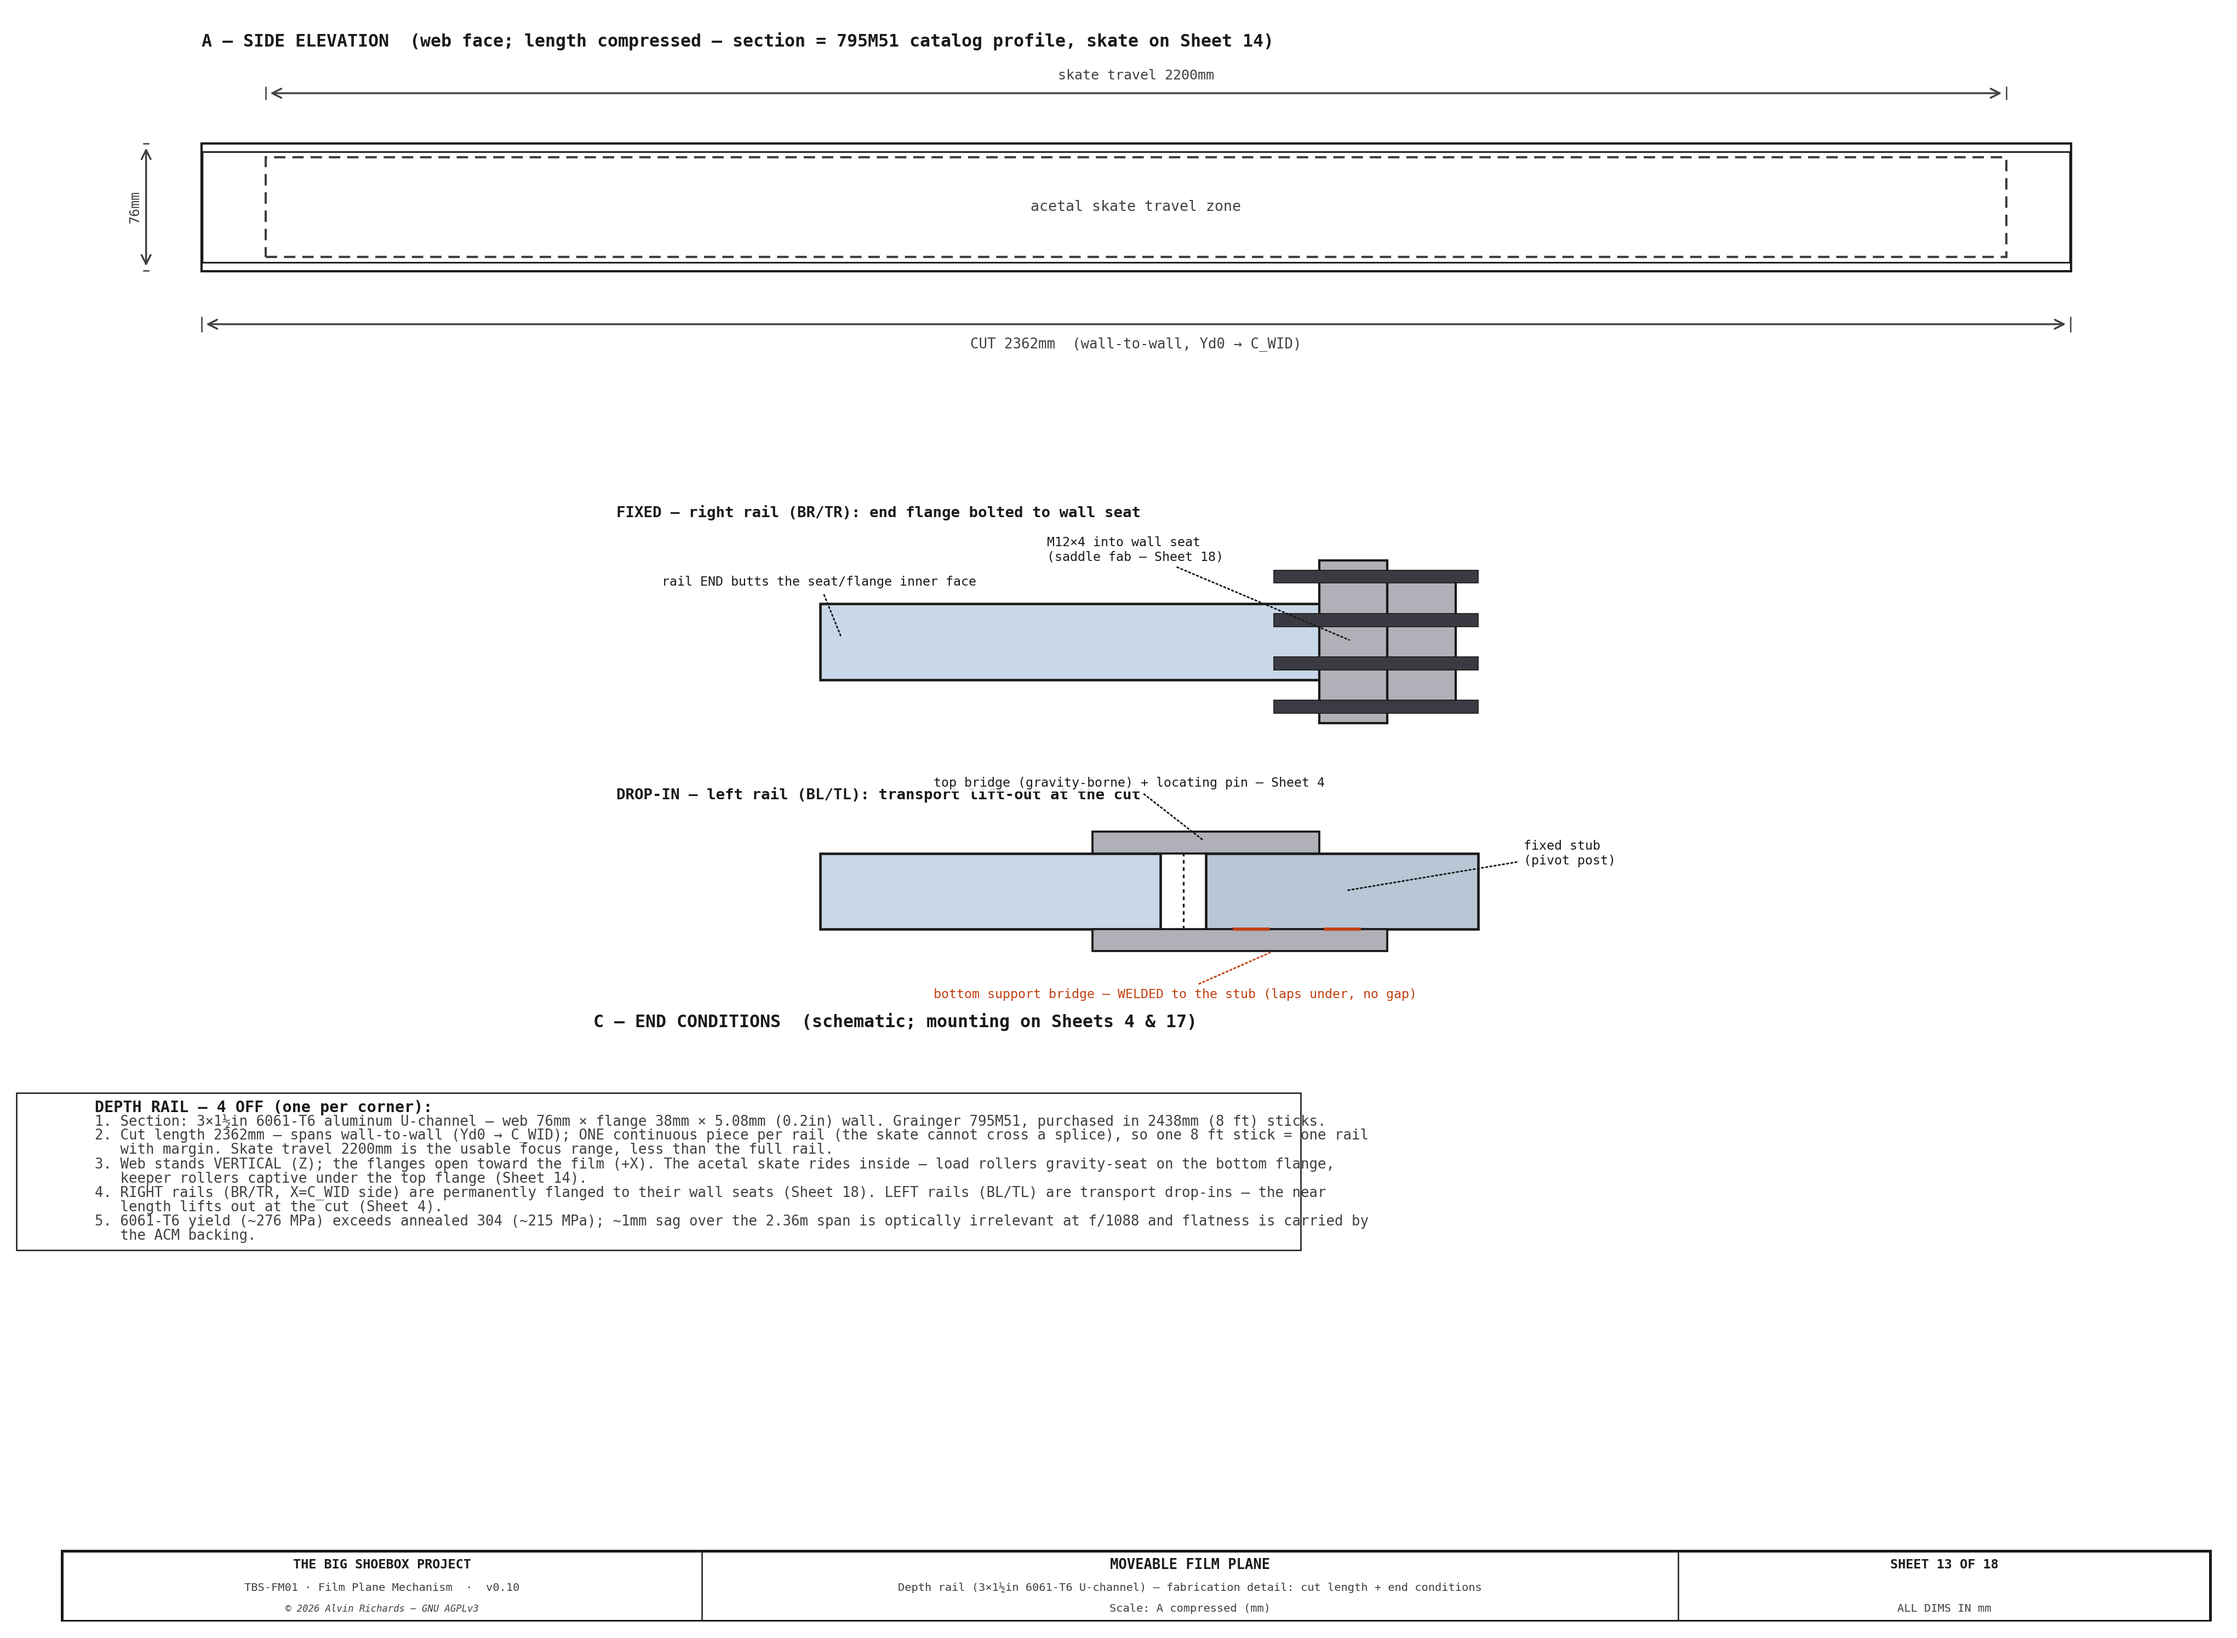
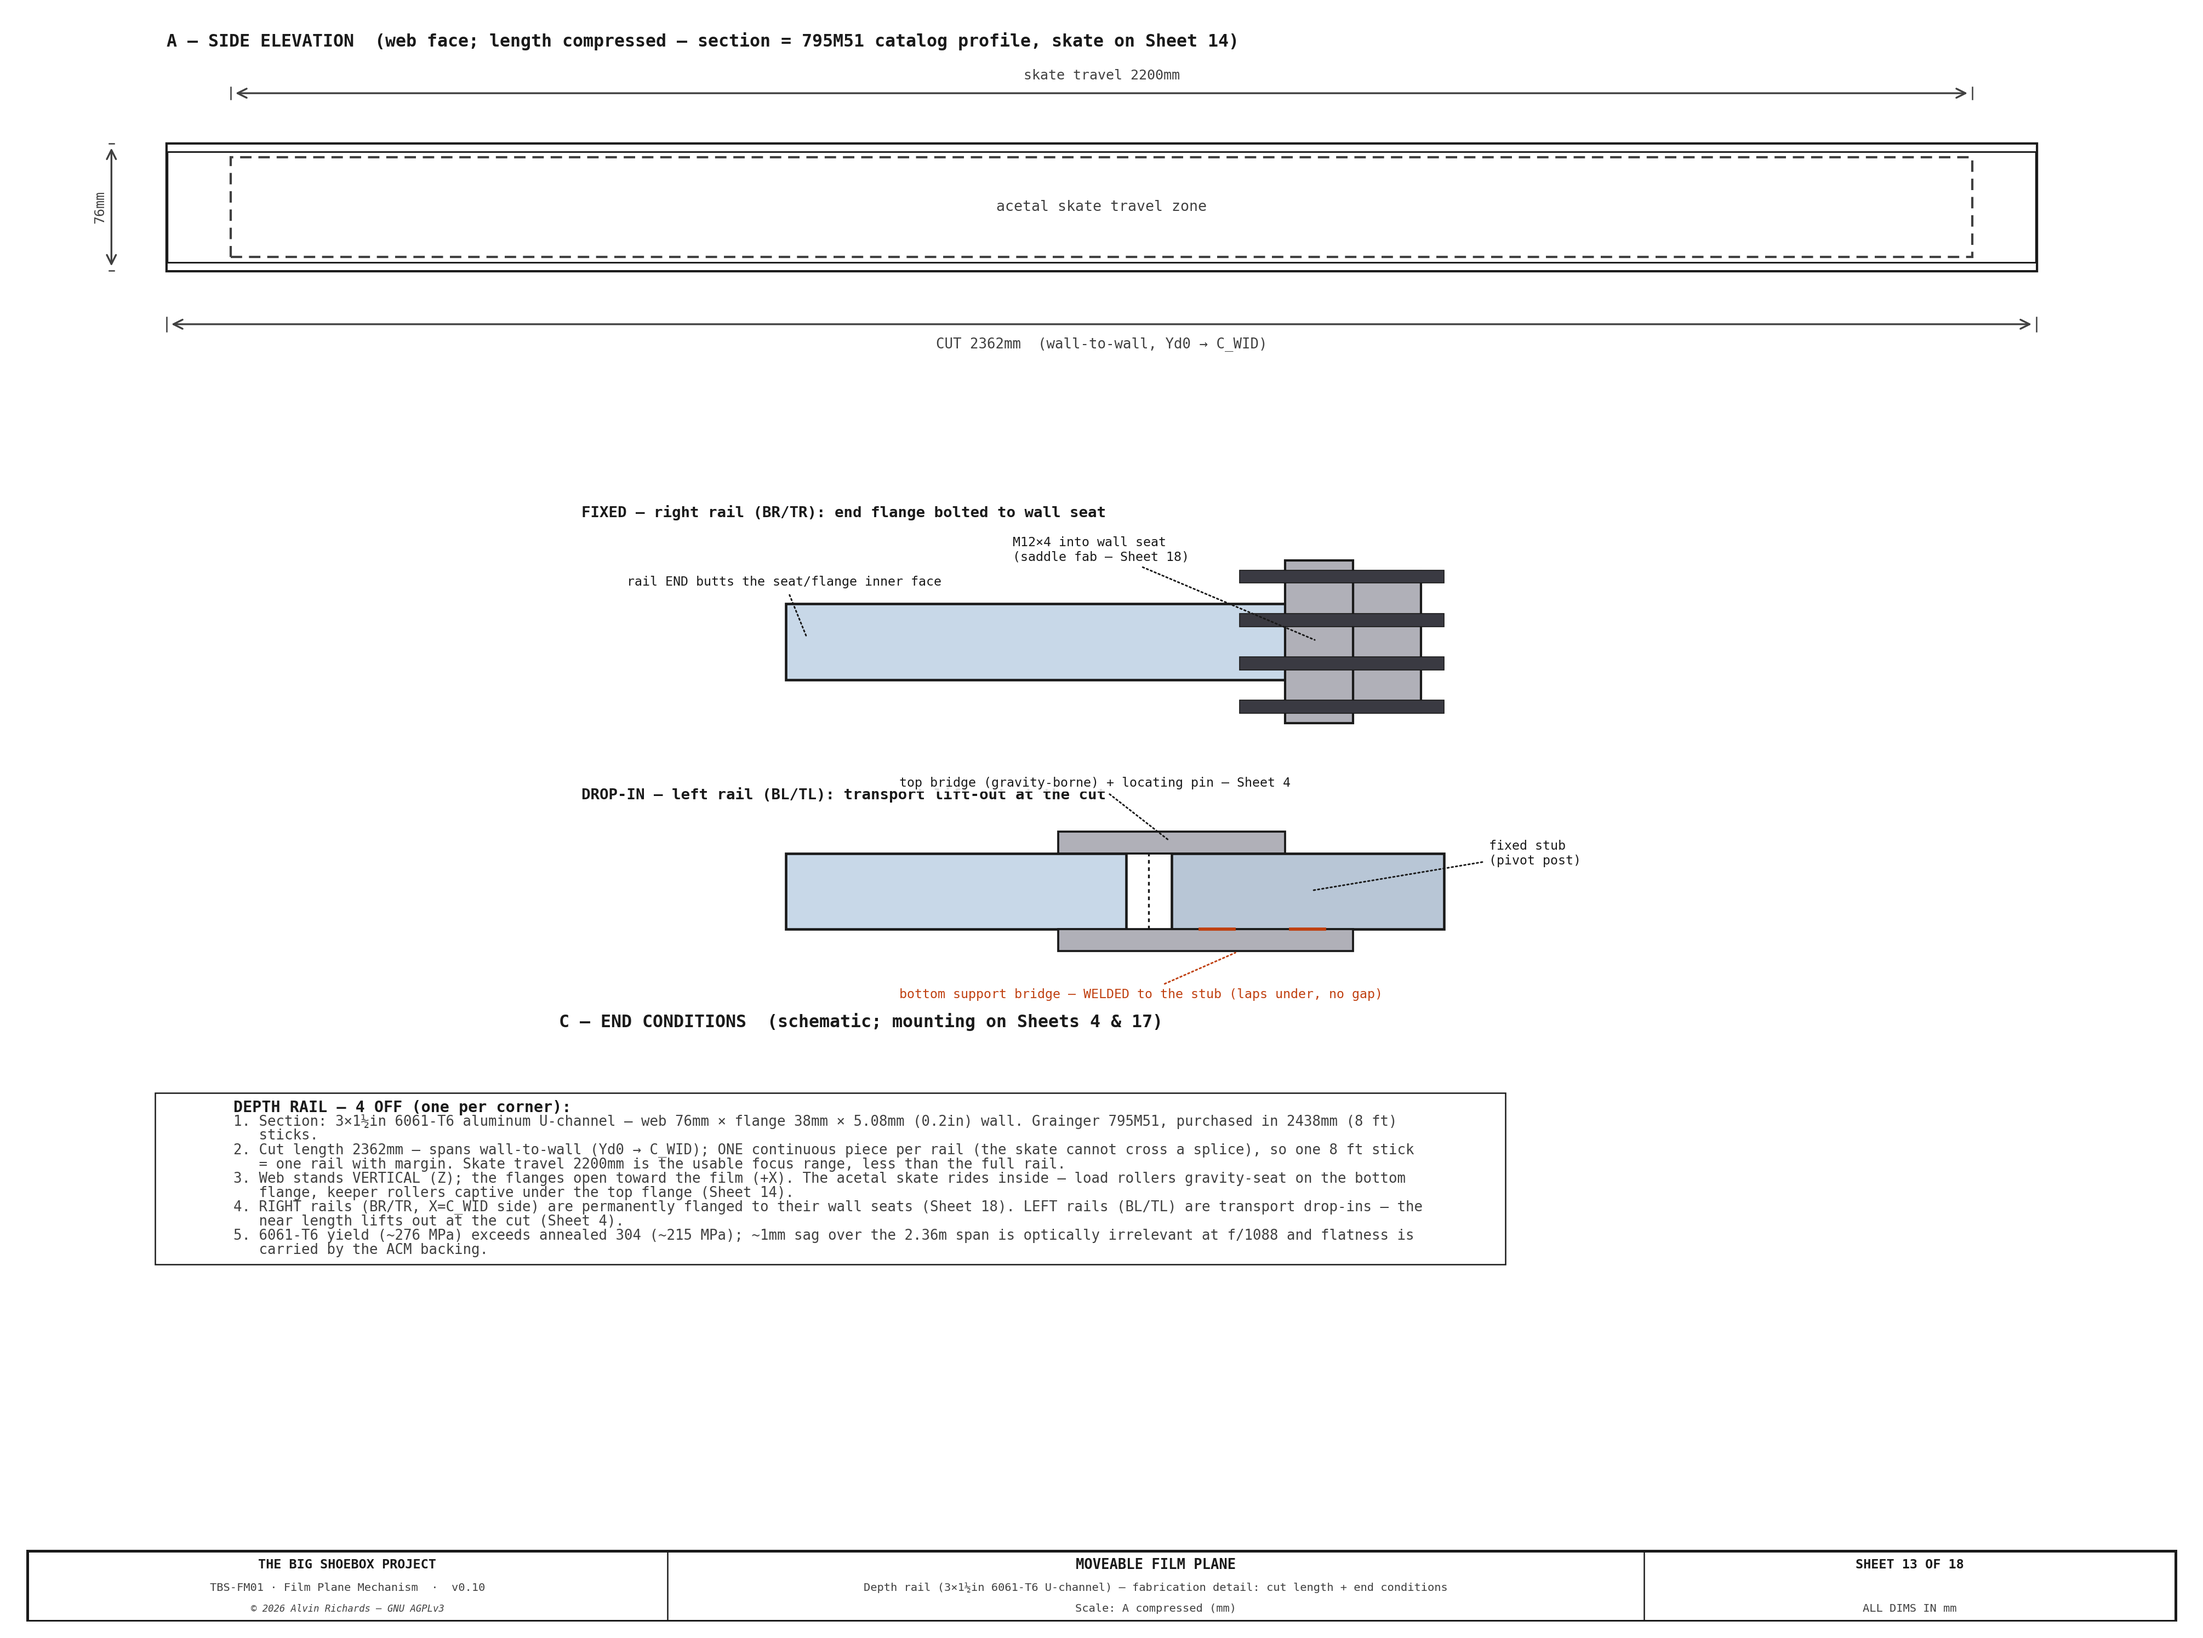
Tidy labels

diff --git a/src/generators/generate_film_plane_mechanism.py b/src/generators/generate_film_plane_mechanism.py
@@ -2773,7 +2773,7 @@ def sheet13():
         "(BL/TL) are transport drop-ins — the near length lifts out at the cut (Sheet 4).",
         "5. 6061-T6 yield (~276 MPa) exceeds annealed 304 (~215 MPa); ~1mm sag over the 2.36m span is optically "
         "irrelevant at f/1088 and flatness is carried by the ACM backing.",
-    ], 2, 98, 3.6, fs=6.2, title_fs=6.8, color=DIM, width=52, wrap=150, font=FONT)
+    ], 10, 98, 3.6, fs=6.2, title_fs=6.8, color=DIM, width=55, wrap=140, font=FONT)
 
     ax_tb = fig.add_axes([0.06, 0.012, 0.88, 0.052]); ax_tb.set_xlim(0, 1); ax_tb.set_ylim(0, 1); ax_tb.axis("off")
     title_block(ax_tb, "SHEET 13 OF 18", drawing_title="MOVEABLE FILM PLANE",
